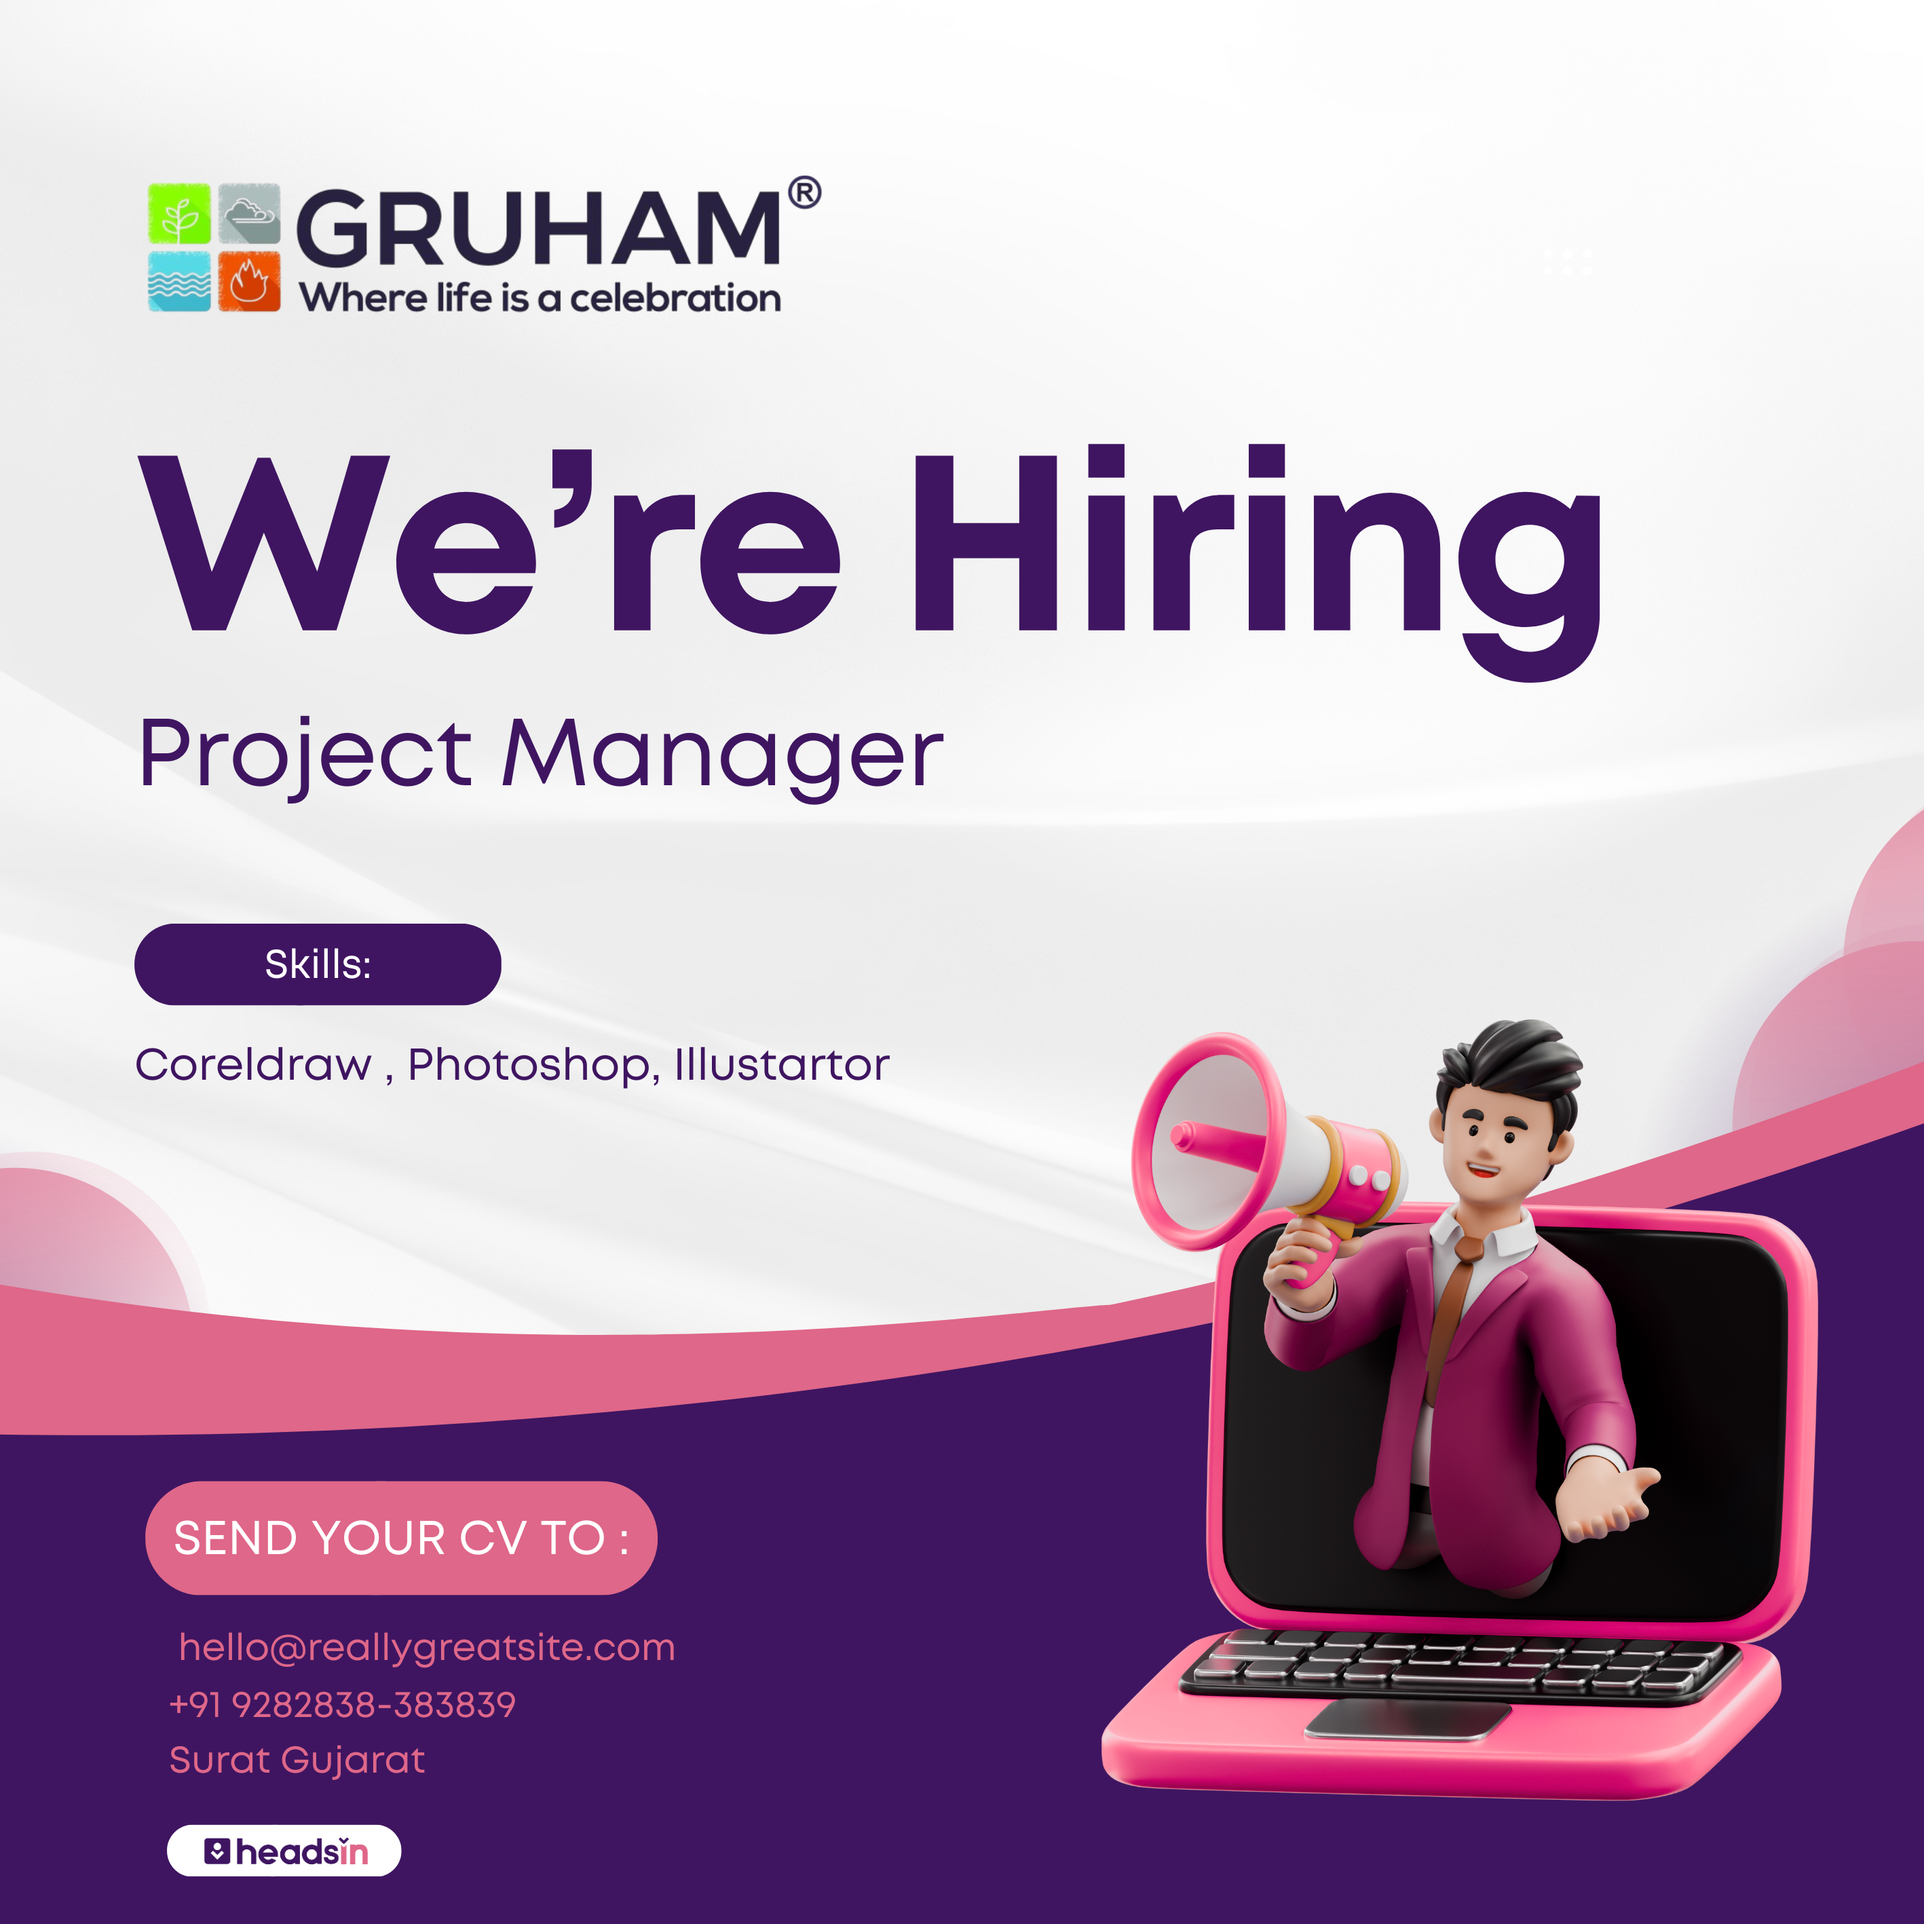
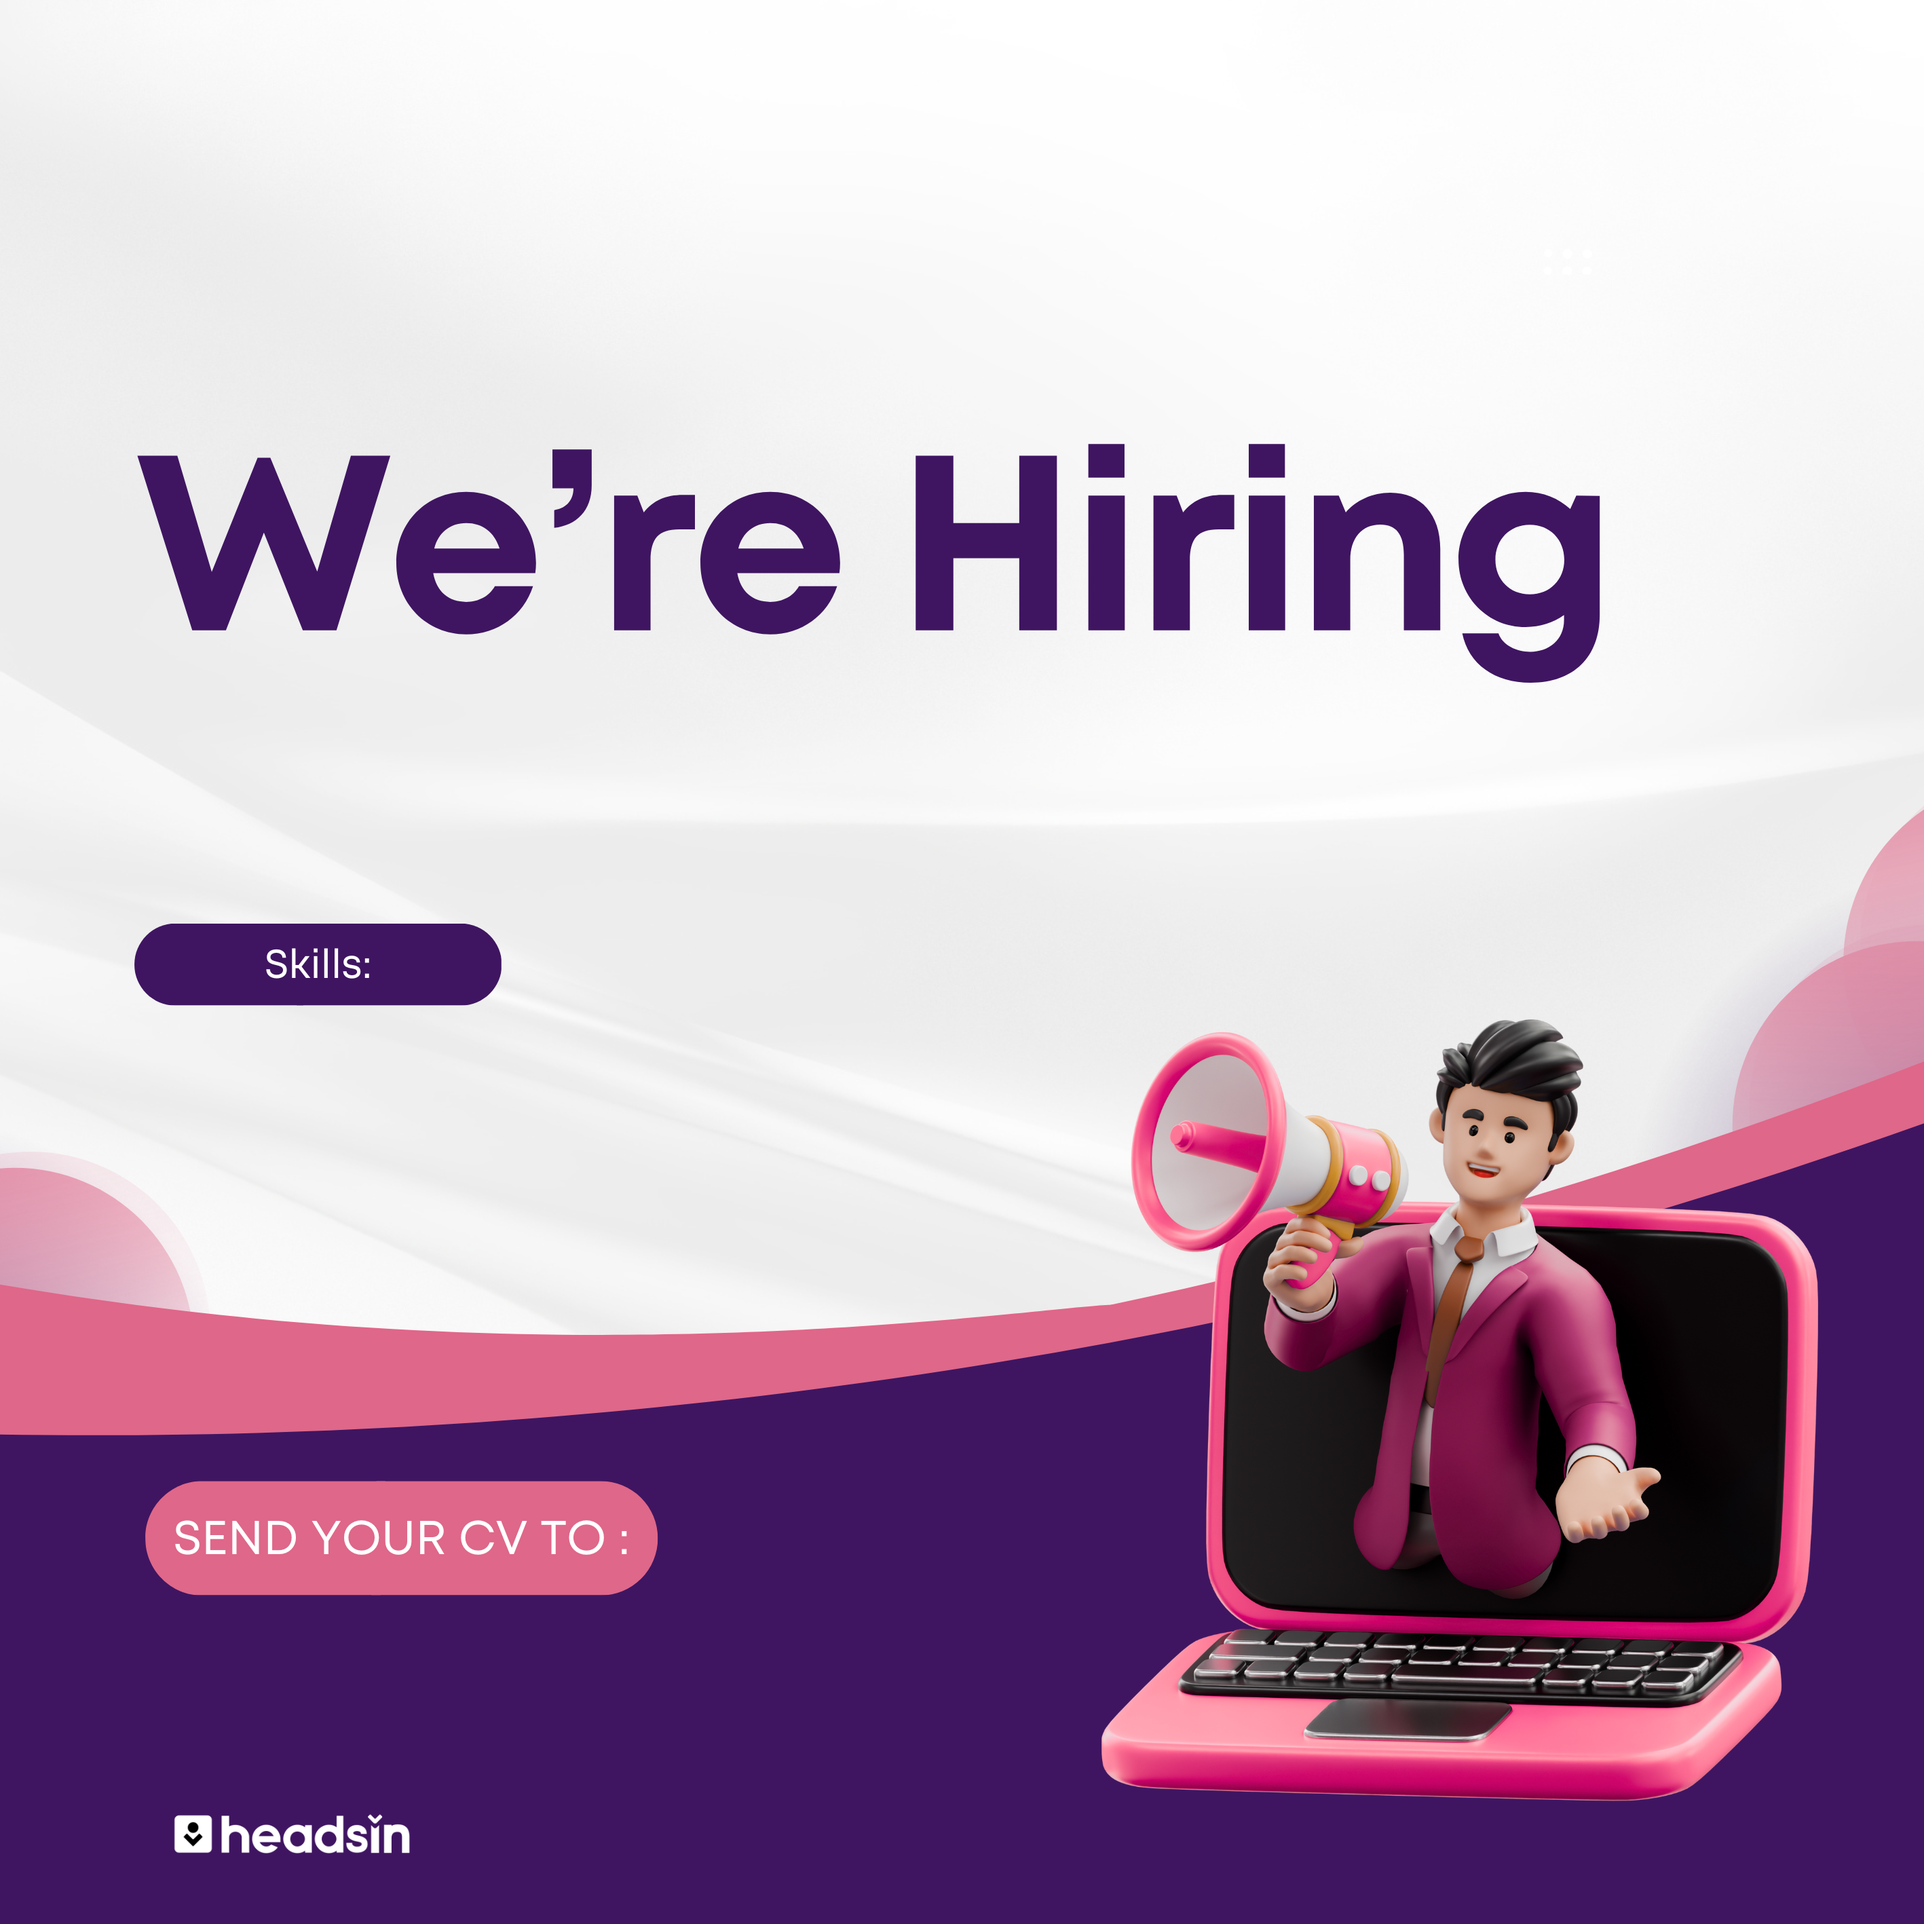
all variant has been added

diff --git a/job_post_image.py b/job_post_image.py
@@ -16,7 +16,7 @@ variant = st.selectbox("Choose Image Variant", ["Variant 1", "Variant 2", "Varia
 
 # === Load Template and Settings Based on Variant ===
 if variant == "Variant 1":
-    TEMPLATE_PATH = "./template/2.png"
+    TEMPLATE_PATH = "./template/1.png"
     template = Image.open(TEMPLATE_PATH)
 
     role_x, role_y, role_font_size = 210, 1050, 150
@@ -32,7 +32,7 @@ if variant == "Variant 1":
     font_role_path = FONT_BOLD
 
 elif variant == "Variant 2":
-    TEMPLATE_PATH = "./template/Job_Post_TEMP.png"
+    TEMPLATE_PATH = "./template/2.png"
     template = Image.open(TEMPLATE_PATH)
 
     role_x, role_y, role_font_size = 210, 1050, 100
@@ -64,11 +64,11 @@ else:  # Variant 3
     font_role_path = FONT_BOLD
 
 # === Input Fields ===
-role = st.text_input("Job Role", value="Python Developer")
-skills = st.text_area("Required Skills (comma-separated)", value="Python, Django, APIs")
-contact = st.text_input("Contact Number", value="+91 9016768065")
-email = st.text_input("Email Address", value="divyeshsarvaiya2@gmail.com")
-location = st.text_input("Job Location", value="Surat")
+role = st.text_input("Job Role", placeholder="Python Developer")
+skills = st.text_area("Required Skills (comma-separated)", placeholder="Python, Django, APIs")
+contact = st.text_input("Contact Number", placeholder="+91 11111111")
+email = st.text_input("Email Address", placeholder="hello@gmail.com")
+location = st.text_input("Job Location", placeholder="Surat")
 logo_file = st.file_uploader("Upload Logo Image", type=["png", "jpg", "jpeg", "webp"])
 
 # === SIDEBAR LOGO CONTROLS (shared) ===
@@ -134,7 +134,7 @@ else:
         st.text(f"Error: {e}")
 
     # === Show & Download ===
-    st.image(canvas, caption="✅ Generated Job Post", use_column_width=True)
+    st.image(canvas, caption="✅ Generated Job Post", use_container_width=True)
 
     buffered = BytesIO()
     canvas.save(buffered, format="PNG")
